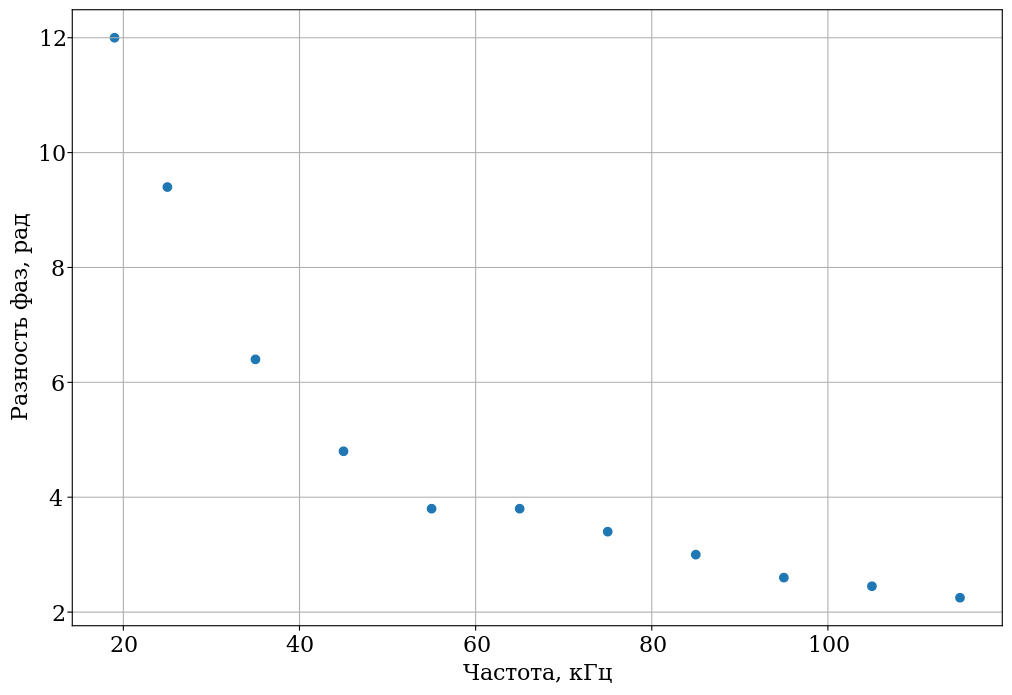
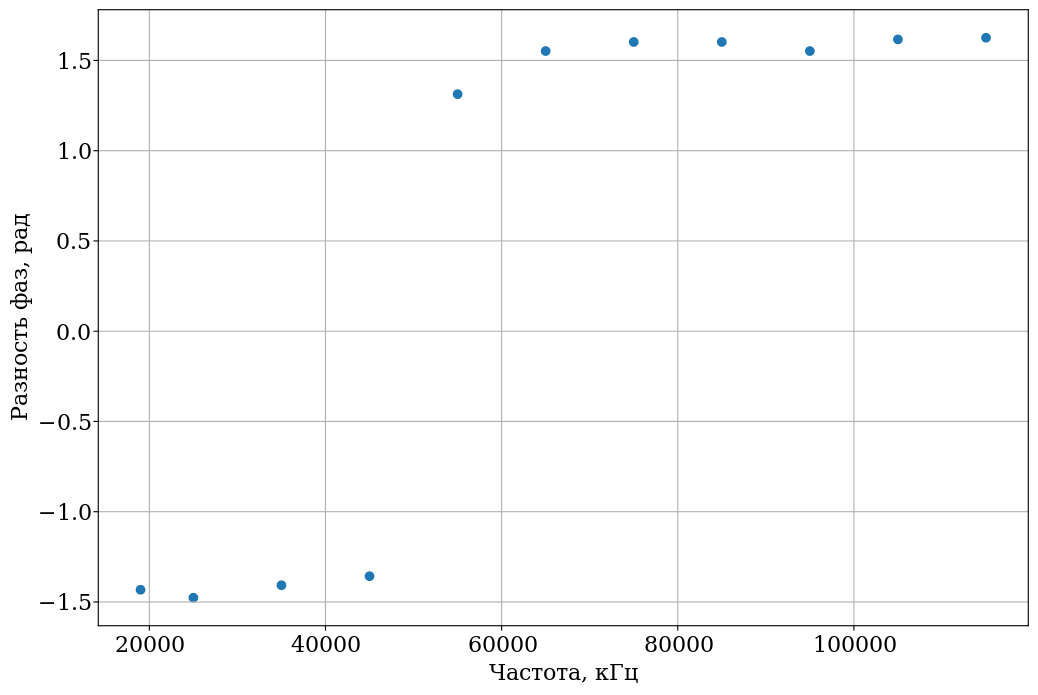
Fix negative values issue

diff --git a/plot_item_10.py b/plot_item_10.py
@@ -11,10 +11,13 @@ paths = (
 
 for path in paths:
     freq, time_diff = map(np.array, lab.read_csv(path))
-    phase_diff = time_diff / (1 / freq)
+    freq *= 1e3  # convert from kHz to Hz
+    time_diff *= 1e-6  # convert from us to seconds
+    #phase_diff = 2 * np.pi * time_diff / (1 / freq)
+    phase_diff = 2 * np.pi * time_diff / (1 / freq)
 
     plt.close()
-    plt.scatter(freq, time_diff)
+    plt.scatter(freq, phase_diff)
     plt.xlabel('Частота, кГц')
     plt.ylabel('Разность фаз, рад')
     plt.grid()
